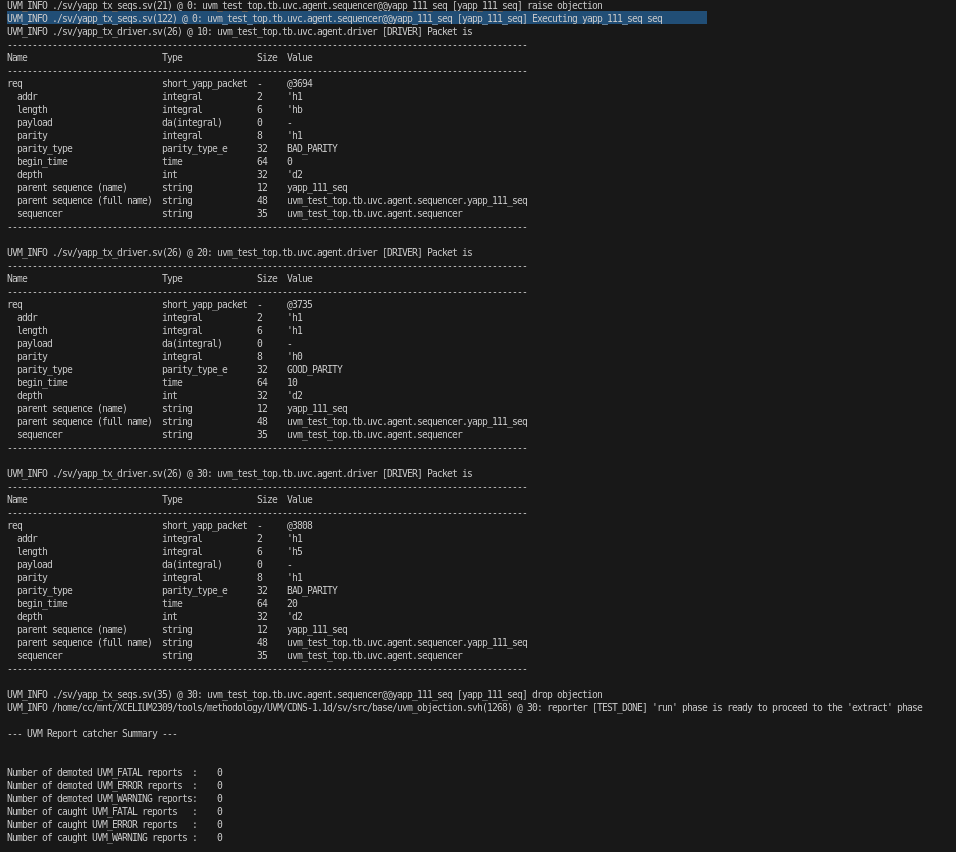
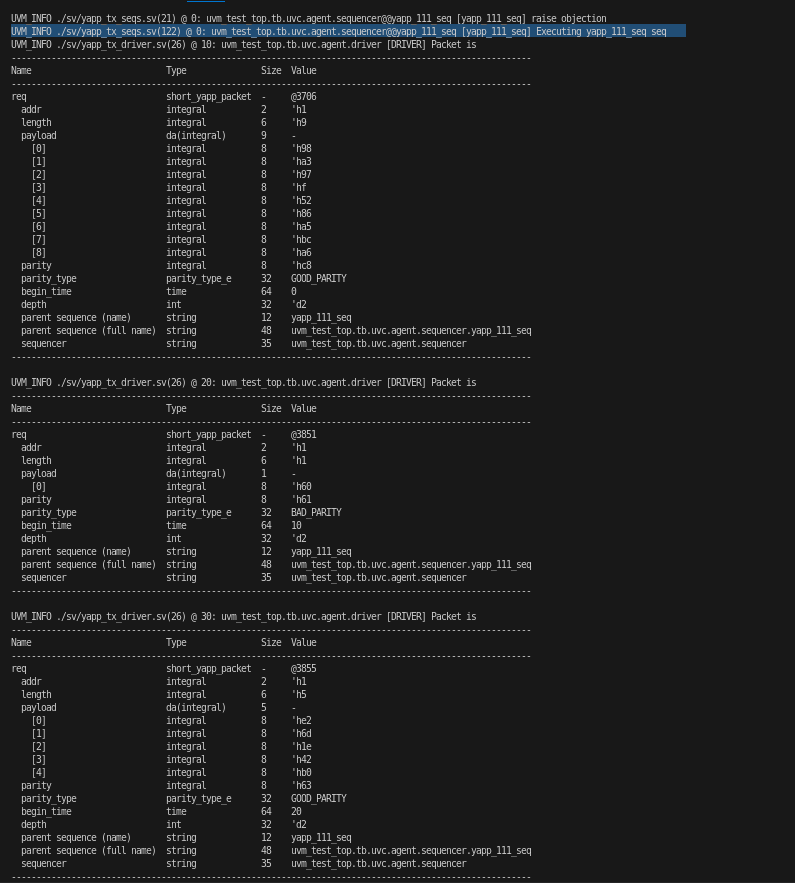
fixed shortpacket constraint and updated readme and screenshots

Changed region(s): [[0.0, 0.0, 0.966, 1.0]]

diff --git a/README.md b/README.md
@@ -154,6 +154,16 @@ Ran the test again to confirm if correct packets are generated and packets not g
 ```systemverilog
 UVM_FATAL @ 0: uvm_test_top.tb.uvc.agent.sequencer@@yapp_repeat_addr_seq [NULLITM] attempting to start a null item from sequence 'uvm_test_top.tb.uvc.agent.sequencer.yapp_repeat_addr_seq'
 ```
+FIXED the error. It was because I was using start_item() & finish_item() methods of sequence without constructing `req`. By default `req` is a handle created for `sequence_item` that is passed as parameter to class.
+
+So created handle for `req` using `uvm_create` macro which is equivalent to:
+
+```systemverilog
+req = sequence_item_type::type_id::create::("req", this).
+```
+`sequence_item_type` here is `yapp_packet`.
+
+![screenshot-5b](/screenshots/5b.png)
 
 #### yapp_incr_payload_seq
 
